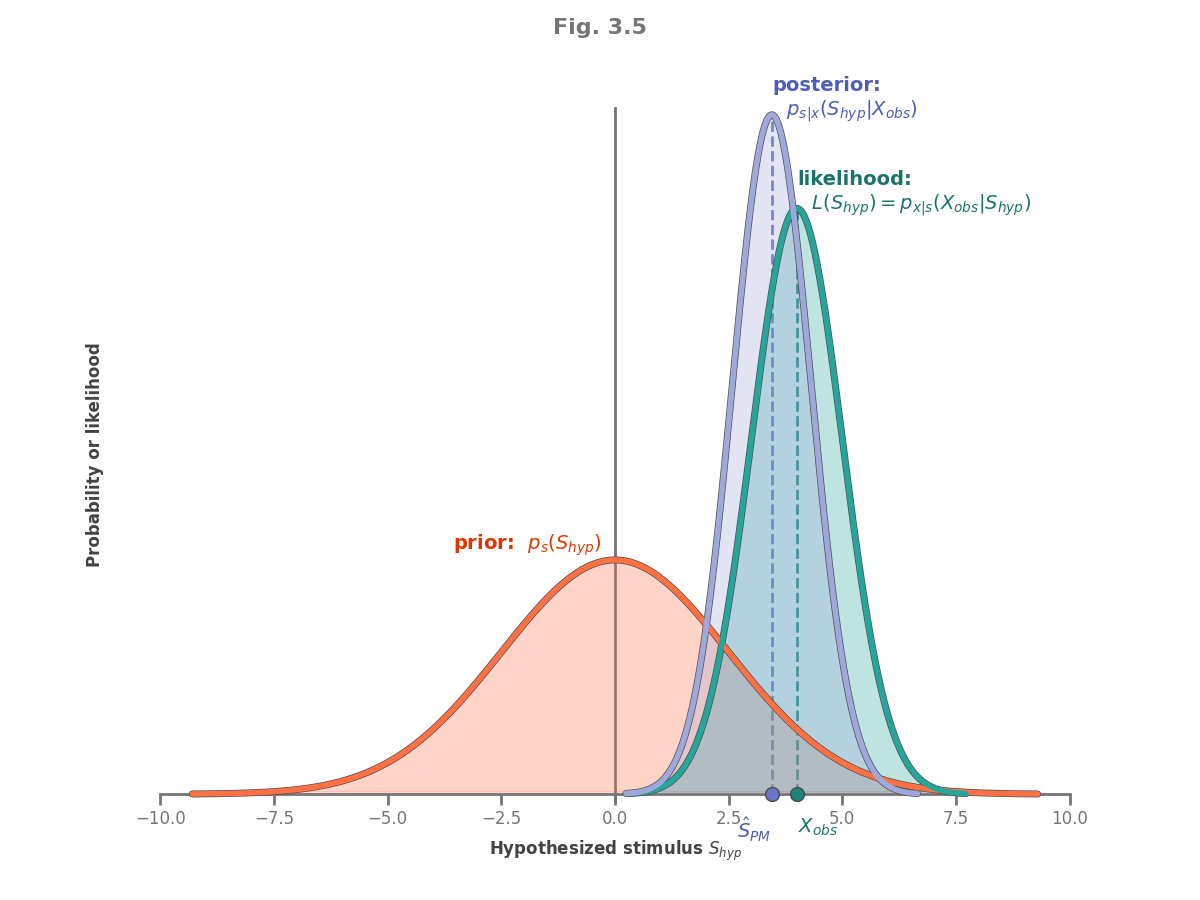
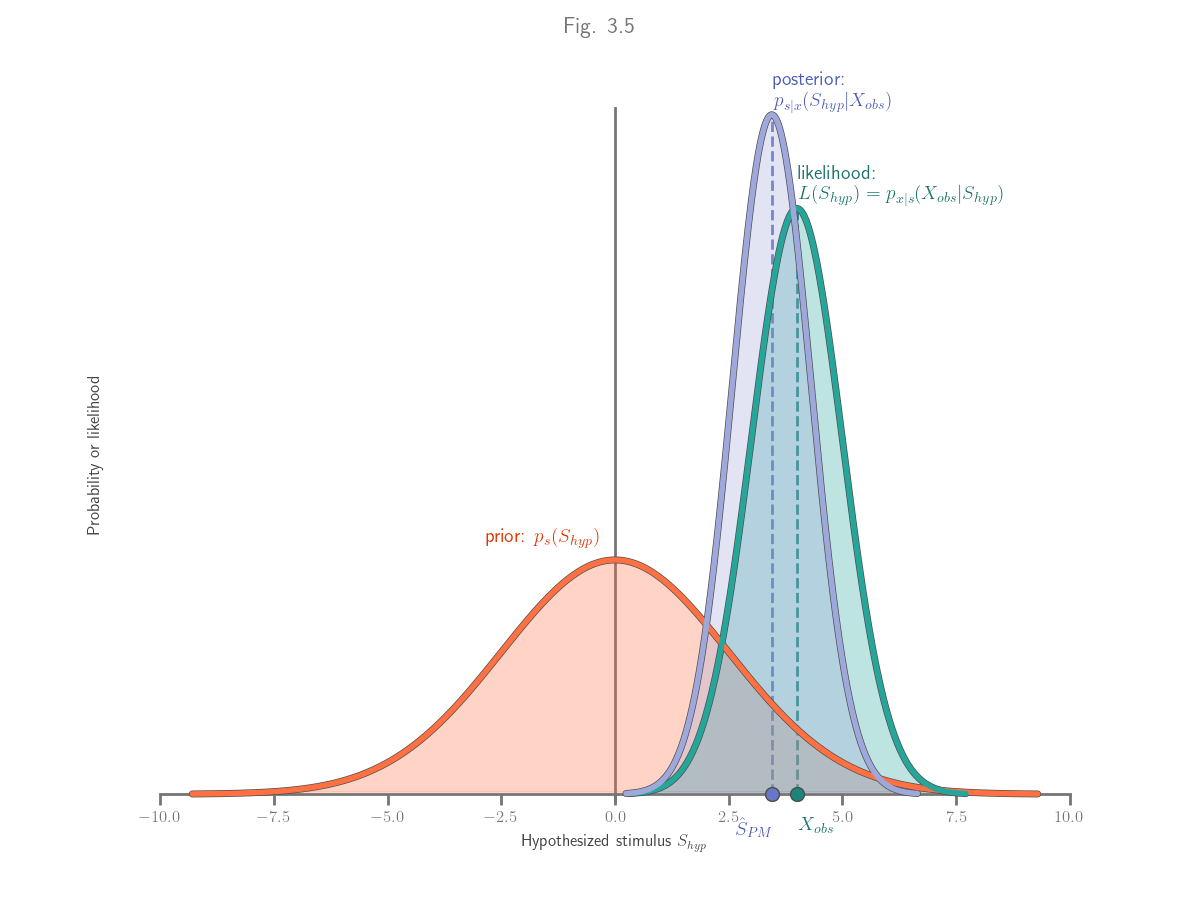
bump

diff --git a/demo/plot/elements.py b/demo/plot/elements.py
@@ -29,8 +29,8 @@ def label_point(ax, x, y, text, below=False, right=False, color='k'):
     '''
         Add some text to label a point
     '''
-    xshift = .02 if not right else (-.3 if not below else -.015)
-    yshift = .01 if not below else -.015
+    xshift = .025 if not right else (-.3 if not below else -.015)
+    yshift = .015 if not below else -.015
     ax.text(
         x + xshift,
         y + yshift,

diff --git a/demo/plot/__init__.py b/demo/plot/__init__.py
@@ -5,8 +5,8 @@ from myterial import grey_darker, grey_dark
 from  matplotlib import rc
 
 # set latex
-# rc('font', **{'family': 'sans-serif', 'sans-serif': ['Times-Roman']})
-# rc('text', usetex = True)
+rc('font', **{'family': 'sans-serif', 'sans-serif': ['Times-Roman']})
+rc('text', usetex = True)
 
 # set axes style
 rc('text', color=grey_dark)
